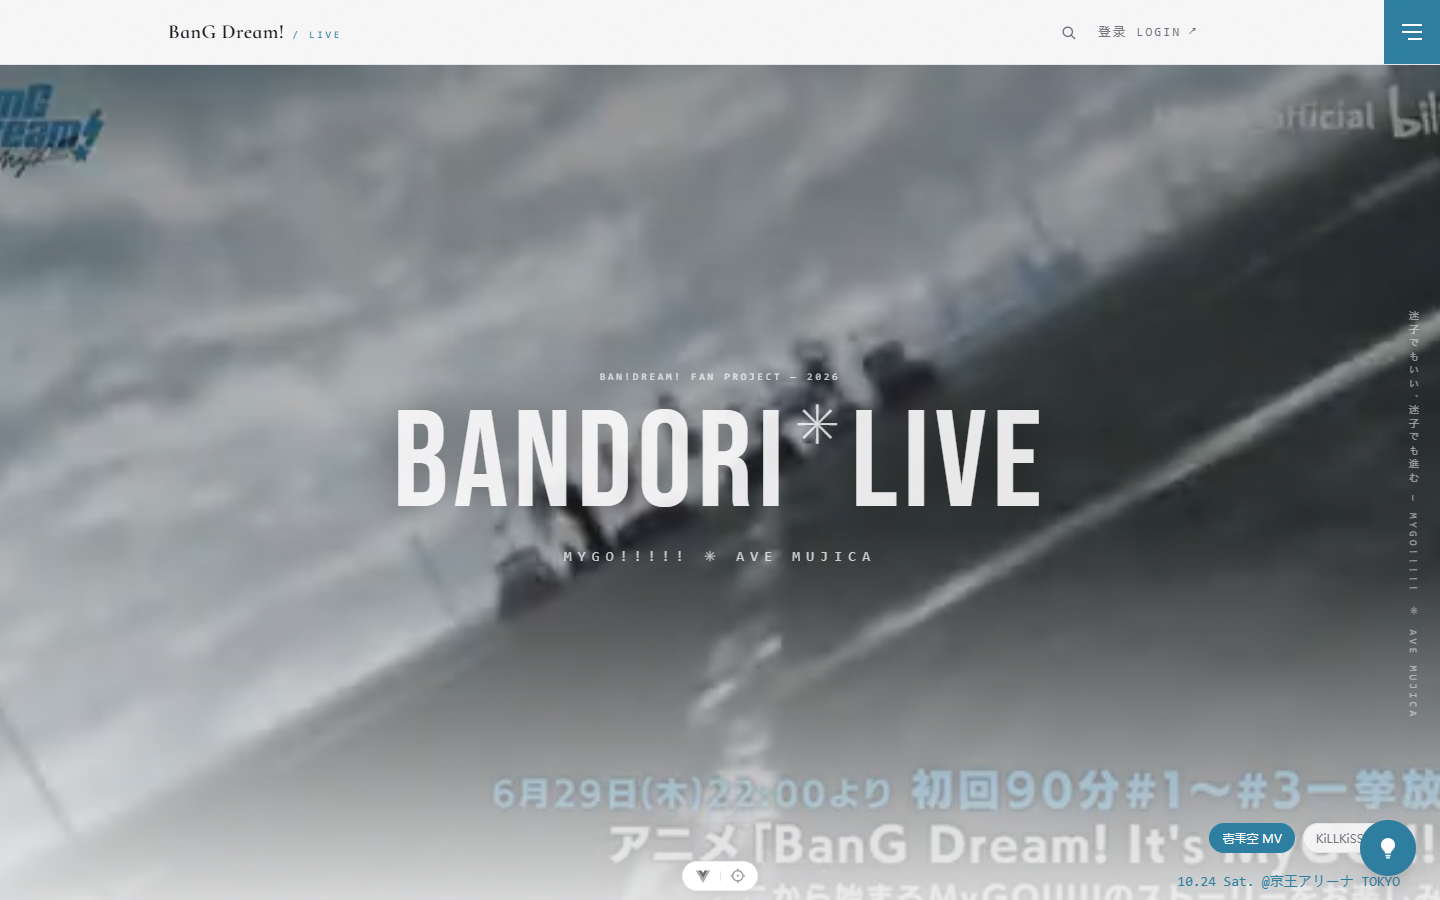
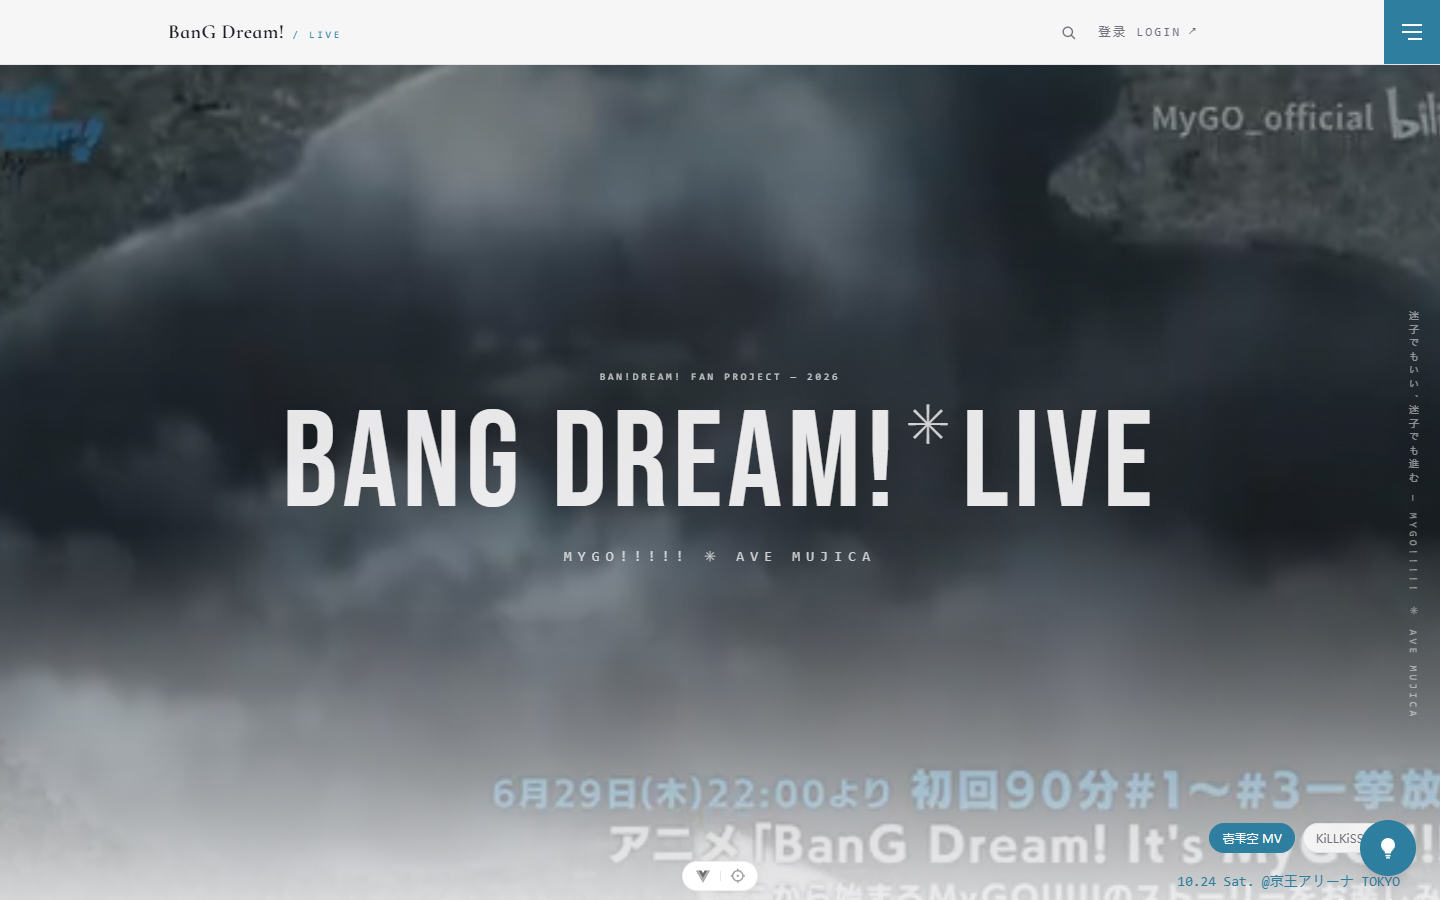
fix(brand): 清除 Hero 大标题/跑马灯/页脚残留的 BANDORI，统一为 BANG DREAM!；重截 5 张站点截图

diff --git a/frontend/src/views/HomeView.vue b/frontend/src/views/HomeView.vue
@@ -39,7 +39,7 @@ const onSale = computed(() => events.value.filter((e) => e.status === 'PUBLISHED
 // 只把「售票中」的演出放进 Hero 购票位；没有在售就不显示（避免给已结束演出挂「立即购票」）
 const featured = computed(() => onSale.value[0] || null)
 const upcoming = computed(() => events.value.filter((e) => e.status !== 'ENDED').slice(0, 3))
-const marqueeItems = ['MYGO!!!!!', 'Ave Mujica', 'LIVE HOUSE', 'prima aurora', '迷子でもいい、迷子でも進む', 'BANDORI / LIVE']
+const marqueeItems = ['MYGO!!!!!', 'Ave Mujica', 'LIVE HOUSE', 'prima aurora', '迷子でもいい、迷子でも進む', 'BANG DREAM! / LIVE']
 
 /** 乐队卡 logo 加载失败 → 回退文字标题 */
 const logoErr = reactive({})
@@ -119,7 +119,7 @@ const gradientOf = (slug) =>
           : 'text-ink'"
         v-reveal="120"
       >
-        BANDORI<span class="mx-1 align-top text-[0.4em]" :class="videoActive ? 'text-white/80' : 'text-primary'">✳</span>LIVE
+        BANG DREAM!<span class="mx-1 align-top text-[0.4em]" :class="videoActive ? 'text-white/80' : 'text-primary'">✳</span>LIVE
       </h1>
       <p class="mono mt-4 text-sm tracking-[0.45em] v-reveal" :class="videoActive ? 'text-white/75' : 'text-dim'" v-reveal="240">
         MYGO!!!!! ✳ AVE MUJICA

diff --git a/frontend/src/components/SiteFooter.vue b/frontend/src/components/SiteFooter.vue
@@ -61,7 +61,7 @@ const externalLinks = [
 
       <!-- 版权 + 免责 -->
       <p class="display mt-10 text-sm tracking-[0.18em] sm:text-base">
-        COPYRIGHT © {{ year }} BANDORI / LIVE. ALL RIGHTS RESERVED.
+        COPYRIGHT © {{ year }} BANG DREAM! / LIVE. ALL RIGHTS RESERVED.
       </p>
       <p class="micro mt-3 !text-white/60">
         粉丝自制站点 · 与 BAN!DREAM! 项目及武士道官方无关 · 不托管任何音频文件

diff --git a/AGENT.md b/AGENT.md
@@ -1,4 +1,4 @@
-# AGENT.md —— Bandori Live 项目全景（合并自 docs/01-09）
+# AGENT.md —— BanG Dream! Live 项目全景（合并自 docs/01-09）
 
 > 一份文档读完整个项目：技术栈、约定、数据模型、接口、红线、测试、协作规则。
 > 生成于 2026-10-19，内容来自 docs/01~09 合并精简 + **代码与数据库实际状态核对**（已过时的计划项已剔除）。
@@ -7,7 +7,7 @@
 
 ## 1. 项目是什么
 
-**Bandori Live** —— MyGO!!!!! × Ave Mujica 粉丝站：音乐库（官方外链试听 + MV 内嵌）、演出票务（模拟支付、防超卖、15 分钟超时取消）、内容管理（管理端）、AI 助手（本地 Ollama 四人格）。
+**BanG Dream! Live** —— MyGO!!!!! × Ave Mujica 粉丝站：音乐库（官方外链试听 + MV 内嵌）、演出票务（模拟支付、防超卖、15 分钟超时取消）、内容管理（管理端）、AI 助手（本地 Ollama 四人格）。
 
 - 定位：个人粉丝站 + 简历项目（企业级工程规范）
 - 状态（2026-10-19）：**M1–M4.10 全部完成**，`main` 已合并（102 提交）；剩余 M5 质量加固、M6 部署交付

diff --git a/docs/09-环境与依赖清单.md b/docs/09-环境与依赖清单.md
@@ -85,13 +85,13 @@ spring:
     locations: classpath:db/migration
 logging:
   level:
-    com.bandori: DEBUG
+    com.avemygo: DEBUG
     org.hibernate.SQL: DEBUG       # 开发期看 SQL，上线前改 INFO
 ```
 
 ### 4.4 其他一次性配置
 
-- [ ] GitHub 建远程仓库（名字建议 `bandori-live`），本地 main 推上去
+- [ ] GitHub 建远程仓库（ave-mygo），本地 main 推上去
 - [ ] MySQL 建库：`CREATE DATABASE bandori_live DEFAULT CHARACTER SET utf8mb4 COLLATE utf8mb4_general_ci;`
 - [ ] IDEA 安装免费插件：Lombok（新版内置）、.env files support、MyBatisX 不需要（JPA 方案）
 - [ ] npm 可选换国内源：`npm config set registry https://registry.npmmirror.com`

diff --git a/docs/08-上线检查清单.md b/docs/08-上线检查清单.md
@@ -7,7 +7,7 @@
 
 | 变量 | 说明 | 示例 |
 |---|---|---|
-| `CORS_ALLOWED_ORIGINS` | 正式域名，逗号分隔；**不能留 localhost** | `https://bandori-live.example.com` |
+| `CORS_ALLOWED_ORIGINS` | 正式域名，逗号分隔；**不能留 localhost** | `https://bangdream-live.example.com` |
 | `DB_URL` / `DB_USERNAME` / `DB_PASSWORD` | 生产库连接（密码走密钥管理，不进仓库） | — |
 | `JWT_SECRET` | ≥32 字节随机串，**必须换掉开发值** | `openssl rand -base64 48` |
 | `LOG_LEVEL` | 生产 `INFO`；排查时临时 `DEBUG` | `INFO` |

diff --git a/docs/04-需求说明.md b/docs/04-需求说明.md
@@ -1,4 +1,4 @@
-# 04 · 需求说明 —— MyGO!! / Ave Mujica 粉丝站「Bandori Live」
+# 04 · 需求说明 —— MyGO!!!!! / Ave Mujica 粉丝站「BanG Dream! Live」
 
 > 状态：**v1.0 需求设计定稿**（2026-10-15）
 > 定位：**自用 + 简历**双目标的全栈项目。音乐播放 + 演出票务 + 内容管理。
